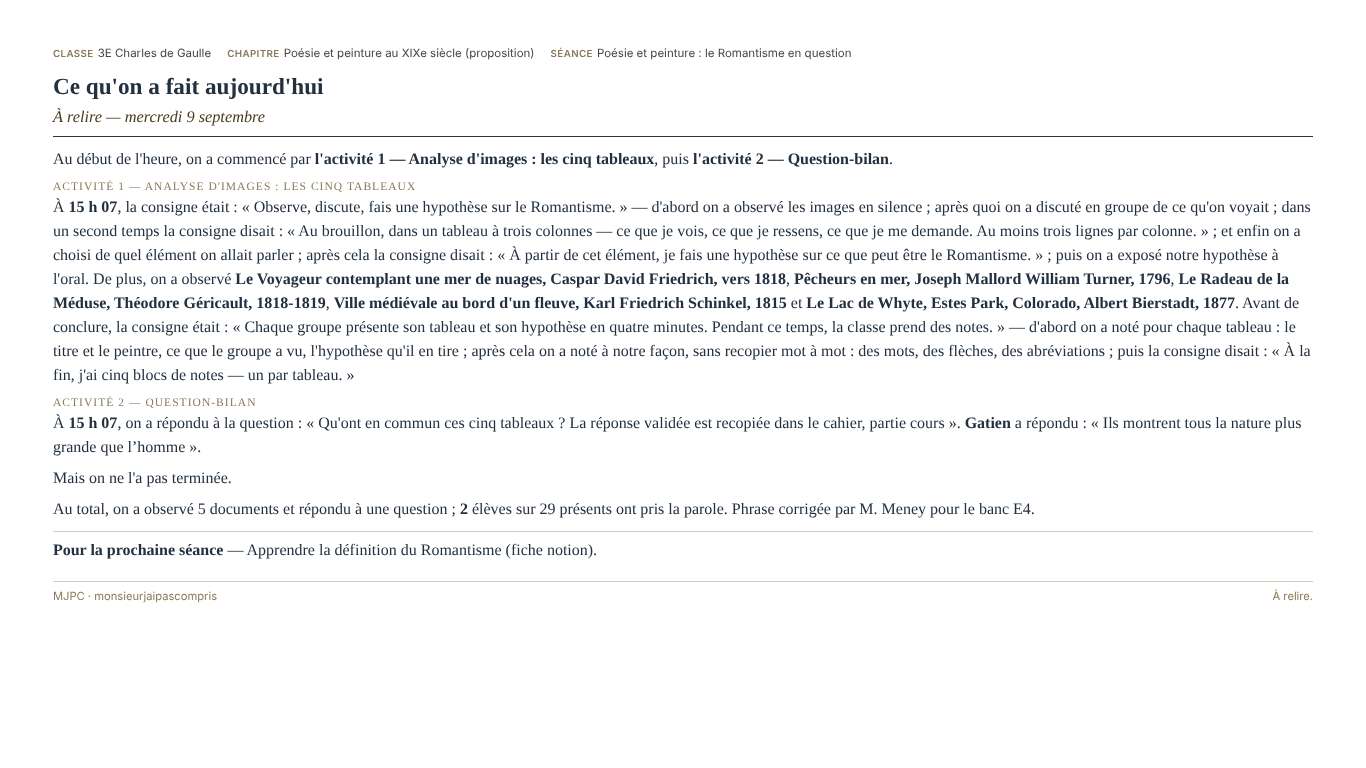
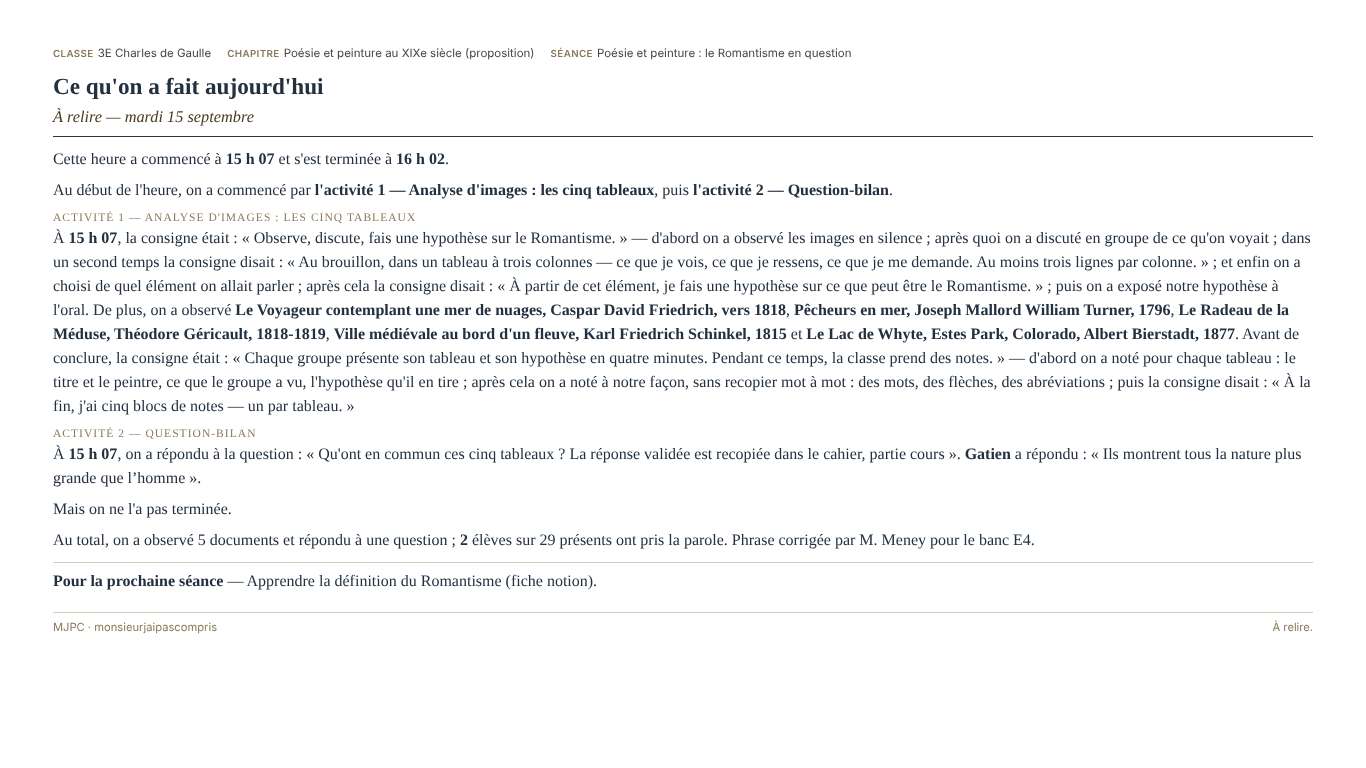
E4 · relecteur neuf (passe préalable) : 10 trouvailles corrigées avec leurs gardes (banc 34 ok sur socle simulé) ; journal
Claude-Session: https://claude.ai/code/session_01PruitidjmUJZpopKSLyTBG

diff --git a/LIVRAISONS/INTEGRATION/dr/dr-recit.js b/LIVRAISONS/INTEGRATION/dr/dr-recit.js
@@ -87,6 +87,10 @@ var CONNECTEURS={
 };
 function empreinte(s){ var x=0; for(var k=0;k<s.length;k++)x=(x*31+s.charCodeAt(k))>>>0; return x; }
 function connecteur(type,graine){ var l=CONNECTEURS[type]; return l[empreinte(graine)%l.length]; }
+/* (E4 · relecteur neuf 1) en JavaScript, \b ne connaît pas les lettres accentuées : « poètes » contenait le mot « tes » (→ « poèses »),
+   « cinéma » le mot « ma ». Les mêmes motifs, bornés par des lettres Unicode ; rien d'autre ne change. */
+function dr_rx(re){ return new RegExp(re.source.replace(/^\\b/, '(?<![\\p{L}\\p{N}_])').replace(/\\b$/, '(?![\\p{L}\\p{N}_])').replace(/\\b/g, '(?![\\p{L}\\p{N}_])'), re.flags.replace('u', '') + 'u'); }
+PRESENT_IMPARFAIT = PRESENT_IMPARFAIT.map(p => [dr_rx(p[0]), p[1]]); PERSONNE = PERSONNE.map(p => [dr_rx(p[0]), p[1]]);
 function personne(t){ var s=String(t); PERSONNE.forEach(function(p){ s=s.replace(p[0],p[1]); }); return s; }
 function recit(t){
   var d=document.createElement('div'); d.innerHTML=String(t||'');
@@ -144,7 +148,7 @@ function chapitreHtml(){ /* (f) 2 · 1 bis — une lecture, jamais une écriture
   const ligneN = (n, f) => { const pv = prevues[n.id] || [], vu = vues[n.id] || [], dn = donnees[n.id] || []; const etat = manquantes[n.id] && !vu.length ? 'manquante pour la suite' : vu.length ? 'travaillée' : (pv.some(x => aVenir.includes(x.h)) ? 'à venir' : (pv.length ? 'non travaillée' : (imprev[n.id] ? 'imprévue' : ''))); if (!pv.length && !vu.length && !dn.length && !imprev[n.id] && !manquantes[n.id]) return ''; return `<div class="chap-n ${etat.replace(/\s/g, '-').replace('é', 'e')}"><b>${esc(n.prof || n.eleve || n.id)}</b> <span class="chap-etat">${etat}</span> — prévue ${pv.length ? pv.map(x => 'h' + x.h + ' (' + esc(x.act) + ')').join(', ') : 'nulle part'} · travaillée ${vu.length ? [...new Set(vu.map(x => 'h' + x.h + ' (' + esc(x.act) + ')'))].join(', ') : 'pas encore'} · à apprendre ${dn.length ? 'donnée h' + dn.join(', h') : 'pas encore'}${imprev[n.id] ? ' · <i>imprévue, ajoutée pendant l\'heure</i>' : ''}${manquantes[n.id] && !vu.length ? ' · <i>attendue par ' + manquantes[n.id].map(x => '« ' + esc(x.act) + ' » (heure ' + x.h + ')').join(', ') + '</i>' : ''}</div>`; };
   dr_recitTaxo().forEach(d => d.familles.forEach(f => f.notions.forEach(n => { h3 += ligneN(n, f); }))); h3 += '</div>';
   return `<div class="chapitre">${h1}${h2}${h3}</div>`; }
-function brancherChapitre(){ $('rel').querySelectorAll('[data-copie-travail]').forEach(b => b.onclick = () => { const h = +b.dataset.copieTravail; const txt = (S.travailHeure || {})[h] || (h === S.heure ? texteTravailED() : ''); { const tt = txt || '(rien à faire)'; /* (E4 · R22) lisait copierTexte(texte) */ dr_recitCopierED('<p>' + esc(tt).replace(/\n/g, '<br>') + '</p>', tt, 'copié : le travail à faire de l\'heure ' + h); } journal('copie-ed', { quoi: 'travail', h }); b.textContent = '✔ copié'; }); }
+function brancherChapitre(){ $('rel').querySelectorAll('[data-copie-travail]').forEach(b => b.onclick = () => { const h = +b.dataset.copieTravail; const txt = (S.travailHeure || {})[h] || (h === S.heure ? texteTravailED() : ''); { const tt = txt || '(rien à faire)'; /* (E4 · R22) lisait copierTexte(texte) */ dr_recitCopierED('<p>' + esc(tt).replace(/\n/g, '<br>') + '</p>', tt, 'copié : le travail à faire de l\'heure ' + h); } S.copieED = S.copieED || {}; S.copieED[h] = Object.assign(S.copieED[h] || {}, { t: now(), travail: true }); /* (E4) la garde après copie le sait */ journal('copie-ed', { quoi: 'travail', h }); b.textContent = '✔ copié'; }); }
 function relecture(){ { const C = dr_recitChemin(); if (C && !DR_RECIT_CHARGE[C] && typeof dr_lire === 'function') { dr_recitCharger(() => relecture()); return; } } /* (E4) le récit relu, ma version, la copie ED : lus au hub avant de composer (C/recit) */ S.face = S.face || 'recit'; S.faceH = S.faceH || S.heure; const hs = heuresJouees(); if (!hs.includes(S.faceH)) S.faceH = hs[hs.length - 1] || S.heure; const fin = (S.closes && S.closes[S.faceH]) || (S.faceH === S.heure ? now() : now());
   let f = ''; hs.forEach(h => { f += `<button class="ong ${S.face === 'recit' && S.faceH === h ? 'on' : ''}" data-f="recit" data-h="${h}" title="Le récit de l'heure ${h}, pour l'élève et École Directe">Le récit · heure ${h}</button><button class="ong ${S.face === 'passe' && S.faceH === h ? 'on' : ''}" data-f="passe" data-h="${h}" title="Ce qui s'est passé pendant l'heure ${h}, pour toi">Ce qui s'est passé · heure ${h}</button><button class="ong ${S.face === 'papier' && S.faceH === h ? 'on' : ''}" data-f="papier" data-h="${h}" title="Le papier du cahier de l'heure ${h} : le récit relu (ma version s'il y en a une), l'entête, le travail à faire, puis les fiches à coller — prêt à imprimer">Papier · heure ${h}</button>`; }); /* (E4) + la face Papier (proposition 96, cadrage 2 §1.9) */
   if (hs.length > 1) f += `<button class="ong ${S.face === 'seance' ? 'on' : ''}" data-f="seance" data-h="${S.faceH}" title="La relecture de la séance : les heures bout à bout, un seul bilan">La séance</button>`; f += `<button class="ong ${S.face === 'chapitre' ? 'on' : ''}" data-f="chapitre" data-h="0" title="Le chapitre : le tracé des travaux à faire, ce qui a tenu et ce qui manquait, les notions — calculé des heures closes de cette classe, les heures à venir lues dans la trame ; rien ne se verse d'ici">Le chapitre</button>`;
@@ -159,7 +163,7 @@ function participeDe(v){ v = v.toLowerCase(); if (IRREGULIERS[v]) return IRREGUL
 function eleveDitJe(t){ /* « J'observe les images » → « on a observé les images » ; pronominal « je me demande » → « on s'est demandé » ; sinon la citation */
   const s = String(t).trim(); const m = s.match(/^j(?:e\s+|')(me\s+|m')?([a-zà-ÿ]+)(.*)$/i); if (!m) return null;
   const pron = m[1] ? true : false; const v = m[2]; const reste = m[3] || ''; const pp = participeDe(v); if (!pp) return null;
-  const aux = pron ? "on s'est " : (AVEC_ETRE.has(pp) ? 'on est ' : 'on a '); return aux + pp + jeInterieur(personne(reste)).replace(/\bmes\b/g, 'nos').replace(/\bmon\b/g, 'notre').replace(/\bma\b/g, 'notre'); }
+  const aux = pron ? "on s'est " : (AVEC_ETRE.has(pp) ? 'on est ' : 'on a '); return aux + pp + jeInterieur(personne(reste)).replace(dr_rx(/\bmes\b/g), 'nos').replace(dr_rx(/\bmon\b/g), 'notre').replace(dr_rx(/\bma\b/g), 'notre'); /* (E4) dr_rx : les accents */ }
 const IMPARFAIT_JE = { 'vois': 'voyait', 'vais': 'allait', 'fais': 'faisait', 'peux': 'pouvait', 'dois': 'devait', 'suis': 'était', 'ai': 'avait', 'sais': 'savait', 'veux': 'voulait', 'dis': 'disait', 'lis': 'lisait', 'écris': 'écrivait', 'mets': 'mettait', 'prends': 'prenait', 'choisis': 'choisissait', 'ressens': 'ressentait', 'comprends': 'comprenait', 'apprends': 'apprenait', 'réponds': 'répondait', 'entends': 'entendait', 'attends': 'attendait', 'connais': 'connaissait', 'crois': 'croyait', 'viens': 'venait', 'tiens': 'tenait', 'finis': 'finissait', 'réfléchis': 'réfléchissait' };
 function jeInterieur(t){ /* les « je » restés dans la phrase : « de ce que je vois » → « de ce qu'on voyait » ; « je me demande » → « on se demandait » */
   return String(t).replace(/\b(que|qu')\s*j(?:e\s+|')(me\s+|m')?([a-zà-ÿ]+)/gi, (_, q, pron, v) => { const imp = IMPARFAIT_JE[v.toLowerCase()] || (/e$/.test(v) ? v.replace(/e$/, 'ait') : null); if (!imp) return _; return "qu'on " + (pron ? 'se ' : '') + imp; })
@@ -176,19 +180,19 @@ function vuJ(h, di){ let n = 0, m = 0; J.filter(x => x.h === h && x.di === di &&
 function repsJ(h, di, bi){ return J.filter(x => x.h === h && x.type === 'reponse' && x.di === di && x.bi === bi && !x.supprimee).map(x => ({ eleve: x.eleve, i: x.ini, r: x.txt, refo: x.refo })); }
 function versionsDe(h){ S.recitVersions = S.recitVersions || {}; S.recitVersions[h] = S.recitVersions[h] || { l: [], k: -1 }; return S.recitVersions[h]; }
 function poserVersion(h, html){ const v = versionsDe(h); v.l = v.l.slice(0, v.k + 1); v.l.push({ t: now(), html }); v.k = v.l.length - 1; S.recitMoi = S.recitMoi || {}; S.recitMoi[h] = html; S.recitMoiT = S.recitMoiT || {}; if (!S.recitMoiT[h]) S.recitMoiT[h] = now(); }
-function suiteDepuis(h){ /* ce que le site a composé depuis la prise de plume (les paragraphes des activités vues après) */ const t = (S.recitMoiT || {})[h]; if (!t) return ''; const html = troisTemps(recitHtml0(now(), h), h, now(), t); if (!html) return ''; const d = document.createElement('div'); d.innerHTML = html; const r = d.querySelector('.recit'); const ps = r ? Array.from(r.querySelectorAll(':scope > p')).filter(x => !x.classList.contains('cadre') && !x.classList.contains('sous') && !x.classList.contains('devoirs') && !x.classList.contains('bilan')) : []; return ps.map(x => x.outerHTML).join(''); }
+function suiteDepuis(h){ /* ce que le site a composé depuis la prise de plume (les paragraphes des activités vues après) */ const t = (S.recitMoiT || {})[h]; if (!t) return ''; const html = troisTemps(recitHtml0(now(), h, { apres: t }), h, now(), t); /* (E4 · relecteur 1) lisait recitHtml0(now(), h) : la suite reracontait l'activité entière */ if (!html) return ''; const d = document.createElement('div'); d.innerHTML = html; const r = d.querySelector('.recit'); const ps = r ? Array.from(r.querySelectorAll(':scope > p')).filter(x => !x.classList.contains('cadre') && !x.classList.contains('sous') && !x.classList.contains('devoirs') && !x.classList.contains('bilan')) : []; return ps.map(x => x.outerHTML).join(''); }
 function suiteHtml(h){ const su = suiteDepuis(h); return su ? `<div class="ed-suite"><div class="ed-suite-t">— la suite de l'heure, composée par le site depuis ${hhmm((S.recitMoiT || {})[h]).replace(':', ' h ')} (tu la reprendras dans ta version) :</div>${su}</div>` : ''; }
 function reprendreSuite(h){ const su = suiteDepuis(h); if (!su) return; S.recitMoi[h] = (S.recitMoi[h] || '') + su; S.recitMoiT[h] = now(); poserVersion(h, S.recitMoi[h]); journal('recit-suite-reprise', { h }); tout(); if (document.getElementById('ecran-relecture').classList.contains('on')) relecture(); }
 function basculerRecit(h, vers){ const faire = () => { S.recitVersion = S.recitVersion || {}; S.recitVersion[h] = vers; if (vers === 'moi' && (!S.recitMoi || S.recitMoi[h] == null)) poserVersion(h, recitPourED0(h)); journal(vers === 'moi' ? 'recit-ma-version' : 'recit-compose-par-le-site', { h }); tout(); if ($('rel') && document.getElementById('ecran-relecture').classList.contains('on')) relecture(); }; if (vers === 'moi' && S.copieED && S.copieED[h]) { gardeCopie(h, faire); } else faire(); }
-function gardeCopie(h, faire){ const c = S.copieED[h]; $('gcopie-titre').textContent = `Ce récit a déjà été copié pour École Directe à ${hhmm(c.t).replace(':', ' h ')} — poursuivre quand même ?`; $('garde-copie').classList.add('on'); $('gcopie-oui').onclick = () => { $('garde-copie').classList.remove('on'); journal('recit-poursuivre-apres-copie', { h }); faire(); }; $('gcopie-non').onclick = () => { $('garde-copie').classList.remove('on'); }; $('gcopie-non').focus(); }
+function gardeCopie(h, faire){ const c = S.copieED[h]; $('gcopie-titre').textContent = `Ce récit a déjà été copié pour École Directe à ${hhmm(c.t).replace(':', ' h ')} — poursuivre quand même ?`; $('garde-copie').classList.add('on'); $('gcopie-oui').onclick = () => { $('garde-copie').classList.remove('on'); S.copieConfirme = S.copieConfirme || {}; S.copieConfirme[h] = now(); journal('recit-poursuivre-apres-copie', { h }); faire(); }; $('gcopie-non').onclick = () => { $('garde-copie').classList.remove('on'); }; $('garde-copie').onkeydown = ev => { if (ev.key === 'Escape') { ev.stopPropagation(); $('garde-copie').classList.remove('on'); } }; /* (E4) Échap ferme ; « poursuivre » vaut jusqu'à la prochaine copie */ $('gcopie-non').focus(); }
 function recitPourED0(h){ const d = document.createElement('div'); d.innerHTML = troisTemps(recitHtml0(now(), h), h, now()); const r = d.querySelector('.recit'); return r ? Array.from(r.querySelectorAll(':scope > p')).filter(x => !x.classList.contains('cadre') && !x.classList.contains('sous') && !x.classList.contains('devoirs')).map(x => x.outerHTML).join('') : ''; }
 function recitPourED(h){ if (S.recitVersion && S.recitVersion[h] === 'moi' && S.recitMoi && S.recitMoi[h] != null) return S.recitMoi[h] + suiteHtml(h); const d = document.createElement('div'); d.innerHTML = recitHtml(now(), h); const r = d.querySelector('.recit'); return r ? Array.from(r.querySelectorAll(':scope > p')).filter(x => !x.classList.contains('cadre') && !x.classList.contains('sous') && !x.classList.contains('devoirs')).map(x => x.outerHTML).join('') : ''; }
-function recitHtml(fin, h, bornes){ h = h || S.heure; if (bornes) return recitHtml0(fin, h, bornes); /* l'appel interne du moteur (un élève arrivé ou parti) veut le récit brut tronqué — sans passer par « ma version », sinon la boucle est infinie */ if (S.recitVersion && S.recitVersion[h] === 'moi' && S.recitMoi && S.recitMoi[h] != null) { recitHtml0(fin, h, bornes); /* pose le branchement des boutons */ return `<div class="recit ma-version">${S.recitMoi[h]}${suiteHtml(h)}</div>` + barreRecit(); } /* (d) 3.8 : ma version, une seule source */ return troisTemps(recitHtml0(fin, h, bornes), h, fin); }
+function recitHtml(fin, h, bornes){ h = h || S.heure; if (bornes) return recitHtml0(fin, h, bornes); /* l'appel interne du moteur (un élève arrivé ou parti) veut le récit brut tronqué — sans passer par « ma version », sinon la boucle est infinie */ if (S.recitVersion && S.recitVersion[h] === 'moi' && S.recitMoi && S.recitMoi[h] != null) { recitHtml0(fin, h, bornes); /* pose le branchement des boutons */ const dC = document.createElement('div'); dC.innerHTML = troisTemps(recitHtml0(fin, h, bornes), h, fin); const pris = sel => Array.from(dC.querySelectorAll('.recit > ' + sel)).map(x => x.outerHTML).join(''); /* (E4 · relecteur 1) ma version gardait seulement les paragraphes : l'entête, le cadre de l'heure et le travail à faire restent ceux du site, autour */ return `<div class="dr-recit-tete">${pris('h2') + pris('p.sous') + pris('p.cadre')}</div><div class="recit ma-version">${S.recitMoi[h]}${suiteHtml(h)}</div><div class="dr-recit-queue">${pris('p.devoirs')}</div>` + barreRecit(); } /* (d) 3.8 : ma version, une seule source */ return troisTemps(recitHtml0(fin, h, bornes), h, fin); }
 const barreRecit = () => `<div style="margin-top:12px;display:flex;gap:8px;align-items:center;flex-wrap:wrap"><button class="btn" id="r-copie-contenu" title="Copie le récit (sans le travail à faire) pour le coller dans École Directe — après ça, modifier le récit demande une confirmation">Copier pour École Directe — contenu de séance</button><button class="btn" id="r-copie-travail" title="Copie le travail à faire en entier pour le coller dans École Directe">Copier — travail à faire</button><button class="btn" id="r-figer">·</button><span id="r-copie-etat" style="color:var(--texte2);font-size:.9rem"></span></div>`;
 const TEMPS = [['debut', 0, 10], ['entre1', 10, 25], ['milieu', 25, 35], ['entre2', 35, 45], ['fin', 45, 99]];
 function tempsDe(ms, h){ const min = (ms - dr_recitHeure(h).base) / 60000; return (TEMPS.find(t => min >= t[1] && min < t[2]) || TEMPS[TEMPS.length - 1])[0]; }
 function troisTemps(html, h, fin, depuis){ /* (d) 2 · 1.2 ter et quater — les activités vues, rangées par le temps où elles ont commencé (l'heure réelle), les repères, « on a continué », le verdict ; les paragraphes du moteur s'y rattachent */
-  const d = document.createElement('div'); d.innerHTML = html; const rec = d.querySelector('.recit') || d; const ps = Array.from(rec.querySelectorAll('p[data-cle]')); const E = seance().ecrans; const JH = J.filter(x => x.h === h && x.type === 'diapo' && E[x.di] && !E[x.di].role && (!depuis || x.t >= depuis)).sort((x, y) => x.t - y.t); if (!JH.length) return depuis ? '' : html;
+  const d = document.createElement('div'); d.innerHTML = html; const rec = d.querySelector('.recit') || d; const ps = Array.from(rec.querySelectorAll('p[data-cle]')); const E = seance().ecrans; const JH = J.filter(x => x.h === h && x.type === 'diapo' && E[x.di] && E[x.di].role !== 'fin' && /* (E4 · relecteur 1) lisait !role : une diapo de réactivation, montrée et répondue, disparaissait du récit ; seule la diapo de fin d'heure ne se raconte pas (cadrage 2 · 1.10) */ (!depuis || x.t >= depuis)).sort((x, y) => x.t - y.t); if (!JH.length) return depuis ? '' : html;
   const finH = (S.closes && S.closes[h]) || fin; const cleDe = e => e.actId || ('r-' + e.eid); const acts = []; (S.oraux && S.oraux[h] || []).filter(o => !depuis || o.t0 >= depuis).forEach(o => { const ad = o.act ? (dr_recitActivites() || []).find(z => z.id === o.act) : null; acts.push({ cle: o.act ? o.act : 'reprise-' + o.t0, titre: ad ? 'l\'activité ' + ad.num + ' — ' + ad.titre + ' (à l\'oral)' : 'une reprise à l\'oral', t0: o.t0, t1: o.t1, vues: [], oral: true }); }); JH.forEach((x, k) => { const e = E[x.di]; const cle = cleDe(e); let a = acts.find(z => z.cle === cle); if (a && a.oral) return; if (!a) { const ad = actDe(e); a = { cle, titre: ad ? 'l\'activité ' + ad.num + ' — ' + ad.titre : e.act, t0: x.t, t1: x.t, vues: [] }; acts.push(a); } a.vues.push({ t: x.t, act: e.act }); const suivant = JH.slice(k + 1).find(y => cleDe(E[y.di]) !== cle); a.t1 = Math.max(a.t1, suivant ? suivant.t : finH); });
   acts.sort((x, y) => x.t0 - y.t0); /* les oraux prennent leur place dans le temps */ const REP = { debut: 'Au début de l\'heure, on a commencé par', entre1: 'Ensuite, on a fait', milieu: 'Puis, au milieu de l\'heure, on a fait', entre2: 'Après cela, on a fait', fin: 'Enfin, à la fin de l\'heure, on a fait' }; const CONT = { milieu: 'Puis, au milieu de l\'heure, on a continué', fin: 'Enfin, à la fin de l\'heure, on a continué' };
   const out = []; const bornesDe = t => { const b = TEMPS.find(x => x[0] === t); return [dr_recitHeure(h).base + b[1] * 60000, dr_recitHeure(h).base + b[2] * 60000]; };
@@ -203,7 +207,7 @@ function recitHtml0(fin, h, bornes){ h = h || S.heure; const finHeure = (S.close
   const hm = t => hhmm(t).replace(':', ' h ');
   const JH = J.filter(x => x.h === h); const dateJour = dr_recitHeure(h).jour;
   const p = [`<h2>Ce qu'on a fait aujourd'hui</h2>`, `<p class="sous">${[dr_recitClasseNom(), dr_recitChapitre() + ', ' + dr_recitSeanceTitre(), dateJour + ' · heure ' + h].filter(Boolean).map(esc).join(' · ')}</p>`];
-  const debut = JH.length ? JH[0].t : now(); p.push(`<p class="cadre">Cette heure a commencé à <b>${hm(debut)}</b> et s'est terminée à <b>${hm(finHeure)}</b>.</p>`);
+  const debut = JH.length ? JH[0].t : now(); const finCr = (dr_recitHeure(h) || {}).fin; /* (E4 · relecteur 1) cadrage 2 · 1.1 : « la fin du créneau » — lisait finHeure (maintenant, en cours d'heure) */ p.push(`<p class="cadre">Cette heure a commencé à <b>${hm(debut)}</b> et s'est terminée à <b>${finCr ? String(finCr).replace(':', ' h ') : hm(finHeure)}</b>.</p>`);
   const diapos = JH.filter(e => e.type === 'diapo'); const vus = {}; diapos.forEach(e => { vus[e.di] = vus[e.di] || e.t; }); let ordre = Object.keys(vus).map(Number).sort((x, y) => vus[x] - vus[y]); if (bornes) ordre = ordre.filter(di => (bornes.avant == null || vus[di] < bornes.avant) && (bornes.apres == null || vus[di] >= bornes.apres));
   let rang = 0, nbFiches = 0, nbQuestions = 0, nbImages = 0, nbRappels = 0; /* (E4 · R2) + nbRappels */ const eleves = {}; const dejaCite = {};
   const majApresPoint = t => t.replace(/([.!?»]\s+)([a-zà-ÿ])/g, (_, x, y) => x + y.toUpperCase());
@@ -222,7 +226,7 @@ function recitHtml0(fin, h, bornes){ h = h || S.heure; const finHeure = (S.close
         if (b.t === 'question') { const r = repsJ(h, di, bi).filter(y => y.r); if (!r.length && !S.parts.some(pp => pp.eid === e.eid && pp.heure === h && pp.m !== 'reponse')) { /* (d, Paul 23/09 — 2 · 1.10) une question posée sans réponse d'élève se raconte quand même : la question, et la réponse attendue vue en classe si elle l'a été */ if (vu > 0 || vus[di]) { const q0 = String(b.txt || '').replace(/^Question \d+\s*[—-]\s*/, '').replace(/\s*La réponse validée est recopiée[^.]*\.?/, '').trim(); const att = elsB.filter(o => !o.x.q).map(o => esc(String(o.x.txt).replace(/\.$/, ''))); /* (p8-3c) la question est un élément : ses lignes vues seulement */ nbQuestions++; phrases.push('on a posé la question : « ' + esc(q0.replace(/\.$/, '')) + ' »' + (att.length ? ' ; la réponse attendue vue en classe était : « ' + att.join(' » ; « ') + ' »' : '')); } return; } nbQuestions++; r.forEach(y => { if (y.eleve) eleves[y.eleve] = 1; });
           const autres = [...new Set(S.parts.filter(pp => pp.eid === e.eid && pp.heure === h && pp.m !== 'reponse').map(pp => pp.nom))]; autres.forEach(n => eleves[n] = 1);
           const q = String(b.txt || '').replace(/^Question \d+\s*[—-]\s*/, '');
-          phrases.push('on a répondu à la question : « ' + esc(q.replace(/\.$/, '')) + ' »' + (r.length ? '. ' + r.map(y => '<b>' + esc(y.eleve ? prenomUnique(y.eleve) : (y.i || 'Un élève')) + '</b> a répondu : « ' + esc(y.r.trim().replace(/\.$/, '')) + ' »' + (y.refo ? ', que M. Meney a reformulée' : '')).join(' ; ') : '') + (autres.length ? '. ' + autres.map(n => '<b>' + esc(prenomUnique(n)) + '</b>').join(', ') + (autres.length > 1 ? ' ont aussi participé' : ' a aussi participé') + ' à la mise en commun.' : '.')); } });
+          phrases.push('on a répondu à la question : « ' + esc(q.replace(/\.$/, '')) + ' »' + (r.length ? '. ' + r.map(y => '<b>' + esc(y.eleve ? prenomUnique(y.eleve) : 'un élève' /* (E4 · relecteur 1, cadrage 2 · 1.5 bis) lisait y.i || 'Un élève' : les initiales sortaient */) + '</b> a répondu : « ' + esc(y.r.trim().replace(/\.$/, '')) + ' »' + (y.refo ? ', que M. Meney a reformulée' : '')).join(' ; ') : '') + (autres.length ? '. ' + autres.map(n => '<b>' + esc(prenomUnique(n)) + '</b>').join(', ') + (autres.length > 1 ? ' ont aussi participé' : ' a aussi participé') + ' à la mise en commun.' : '.')); } });
       const lum = [...new Set(lumJ)].map(kk => els[kk]).filter(Boolean).map(x => x.txt); if (lum.length) phrases.push('on a mis en lumière « ' + lum.map(esc).join(' », « ') + ' »');
       JH.filter(x => x.type === 'document' && x.mur && x.mur.di === di).forEach(x => { const d = dr_recitDocuments().find(y => y.id === x.id); const pages = JH.filter(y => (y.type === 'document' || y.type === 'document-page') && y.id === x.id).map(y => y.pos); nbImages++; if (d) phrases.push('on a projeté <b>' + esc(d.titre) + '</b>' + (pages.length > 1 ? ' (' + (d.type === 'pdf' ? 'pages' : 'étapes') + ' ' + Math.min(...pages) + ' à ' + Math.max(...pages) + ')' : '')); }); });
     const notes = S.notesFil.filter(n => n.versee && g.dis.some(di => n.eid === seance().ecrans[di].eid) && n.heure === h);
@@ -253,9 +257,9 @@ function recitHtml0(fin, h, bornes){ h = h || S.heure; const finHeure = (S.close
   let hh = `<div class="recit">${p.join('')}</div>`;
   hh += barreRecit();
   setTimeout(() => { const copier = (txt, ok) => { const dire = m => { const z = $('r-copie-etat'); if (z) z.textContent = m; }; if (navigator.clipboard && navigator.clipboard.writeText) navigator.clipboard.writeText(txt).then(() => dire(ok)).catch(() => dire('la copie automatique a échoué — sélectionne le texte et copie-le')); else dire('la copie automatique a échoué — sélectionne le texte et copie-le'); };
-    const rc = $('r-copie-contenu'); if (rc) rc.onclick = () => { S.copieED = S.copieED || {}; S.copieED[S.heure] = Object.assign(S.copieED[S.heure] || {}, { t: now(), contenu: true }); journal('copie-ed', { quoi: 'contenu' }); const rec0 = document.querySelector('#rel .recit') || document.querySelector('.recit'); /* (E4 · R22) lisait copier(innerText) : le texte seul */ dr_recitCopierED(dr_recitContenuED(rec0), rec0.innerText.replace(/\n\s*Pour la prochaine séance[\s\S]*$/, ''), 'copié : le contenu de séance'); };
+    const rc = $('r-copie-contenu'); if (rc) rc.onclick = () => { S.copieED = S.copieED || {}; S.copieED[S.heure] = Object.assign(S.copieED[S.heure] || {}, { t: now(), contenu: true }); journal('copie-ed', { quoi: 'contenu' }); const rec0 = document.querySelector('#rel .recit') || document.querySelector('.recit'); const tete = document.querySelector('#rel .dr-recit-tete'); /* (E4 · R22) lisait copier(innerText) : le texte seul, et coupait le bilan avec le travail */ const html0 = (tete ? tete.innerHTML : '') + dr_recitContenuED(rec0); dr_recitCopierED(html0, null, 'copié : le contenu de séance'); };
     const rt = $('r-copie-travail'); if (rt) rt.onclick = () => { S.copieED = S.copieED || {}; S.copieED[S.heure] = Object.assign(S.copieED[S.heure] || {}, { t: now(), travail: true }); journal('copie-ed', { quoi: 'travail' }); const tt = texteTravail() || '(rien à faire)'; /* (E4 · R22) lisait copier(texte) */ dr_recitCopierED('<p>' + esc(tt).replace(/\n/g, '<br>') + '</p>', tt, 'copié : le travail à faire'); };
-    const rf = $('r-figer'); if (rf) { const h = S.faceH || S.heure; const v = (S.recitVersion || {})[h] || 'site'; rf.outerHTML = `<span class="rv" style="font-size:.85rem"><span class="${v === 'site' ? 'on' : ''}" data-rv="site" title="Le récit se réécrit tout seul à chaque geste de l'heure. Ta version, si tu en as une, attend dans l'autre position : rien n'est perdu.">composé par le site</span><span class="${v === 'moi' ? 'on' : ''}" data-rv="moi" title="Le récit devient le tien : tu le corriges ici, il ne se réécrit plus ; ce qui se passe ensuite dans l'heure s'ajoute dessous, à part. C'est ce texte qui part (École Directe, le papier). S'il a déjà été copié pour École Directe, on te le demande d'abord.">ma version (modifier)</span></span>`; /* (E4) + les infobulles du sélecteur (contrat §8.6) */ $('rel').querySelectorAll('[data-rv]').forEach(b => b.onclick = () => basculerRecit(h, b.dataset.rv)); if (v === 'moi' && suiteDepuis(h)) { const rvb = $('rel').querySelector('.rv'); if (rvb && !$('rel-reprendre')) rvb.insertAdjacentHTML('beforeend', '<button class="btn" id="rel-reprendre" style="margin-left:8px" title="Colle à la fin de ta version ce que le site a raconté depuis que tu as pris la plume, pour n\'avoir qu\'un seul récit à corriger">Reprendre la suite dans ma version</button>'); const rr = $('rel-reprendre'); if (rr) rr.onclick = () => reprendreSuite(h); } const r = document.querySelector('#rel .recit.ma-version'); if (r) { r.contentEditable = 'true'; r.oninput = () => { S.recitMoi[h] = r.innerHTML; if (!S._rvT) S._rvT = setTimeout(() => { S._rvT = null; poserVersion(h, r.innerHTML); journal('recit-modifie', { h }); }, 800); }; } } }, 0);
+    const rf = $('r-figer'); if (rf) { const h = S.faceH || S.heure; const v = (S.recitVersion || {})[h] || 'site'; rf.outerHTML = `<span class="rv" style="font-size:.85rem"><span class="${v === 'site' ? 'on' : ''}" data-rv="site" title="Le récit se réécrit tout seul à chaque geste de l'heure. Ta version, si tu en as une, attend dans l'autre position : rien n'est perdu.">composé par le site</span><span class="${v === 'moi' ? 'on' : ''}" data-rv="moi" title="Le récit devient le tien : tu le corriges ici, il ne se réécrit plus ; ce qui se passe ensuite dans l'heure s'ajoute dessous, à part. C'est ce texte qui part (École Directe, le papier). S'il a déjà été copié pour École Directe, on te le demande d'abord.">ma version (modifier)</span></span>`; /* (E4) + les infobulles du sélecteur (contrat §8.6) */ $('rel').querySelectorAll('[data-rv]').forEach(b => b.onclick = () => basculerRecit(h, b.dataset.rv)); if (v === 'moi' && suiteDepuis(h)) { const rvb = $('rel').querySelector('.rv'); if (rvb && !$('rel-reprendre')) rvb.insertAdjacentHTML('beforeend', '<button class="btn" id="rel-reprendre" style="margin-left:8px" title="Colle à la fin de ta version ce que le site a raconté depuis que tu as pris la plume, pour n\'avoir qu\'un seul récit à corriger">Reprendre la suite dans ma version</button>'); const rr = $('rel-reprendre'); if (rr) rr.onclick = () => reprendreSuite(h); } const r = document.querySelector('#rel .recit.ma-version'); if (r) { r.contentEditable = 'true'; r.onfocus = () => { const c = (S.copieED || {})[h]; if (c && !((S.copieConfirme || {})[h] >= c.t)) { r.blur(); gardeCopie(h, () => r.focus()); } }; /* (E4 · relecteur 1, cadrage 2 · 3.8) toute modification après une copie ED passe par la garde */ r.oninput = () => { S.recitMoi[h] = r.innerHTML; if (!S._rvT) S._rvT = setTimeout(() => { S._rvT = null; poserVersion(h, r.innerHTML); journal('recit-modifie', { h }); }, 800); }; } } }, 0);
   const absents = ELEVES.filter(e => (S.appel[e] || []).some(x => x.heure === h)); if (absents.length && !bornes) { hh += `<h3>Le mot pour chaque absent (enregistré à la clôture)</h3>`; absents.forEach(e => { const seg = S.appel[e].filter(x => x.heure === h); const arr = seg.find(x => x.type === 'arrive'); const part = seg.find(x => x.type === 'parti'); const rev = seg.find(x => x.type === 'revenu');
     const b = arr ? { avant: arr.t } : part ? { apres: part.t, avant: rev ? rev.t : null } : null; const tronque = b ? recitHtml(fin, h, b) : null; const d2 = document.createElement('div'); if (tronque) d2.innerHTML = tronque; const paras = tronque ? Array.from(d2.querySelectorAll('.recit > p')).filter(x => !x.classList.contains('sous') && !x.classList.contains('cadre') && !x.classList.contains('bilan') && !x.classList.contains('devoirs')).map(x => x.outerHTML).join('') : '';
     hh += `<div class="recit" style="margin-bottom:10px"><p><b>${esc(prenomUnique(e))}</b>, ${arr ? 'tu es arrivé à ' + hm(arr.t) + '. Voici ce qu\'on a fait avant' : part ? 'tu es parti à ' + hm(part.t) + (rev ? ' et revenu à ' + hm(rev.t) : '') + '. Voici ce qu\'on a fait pendant ce temps' : 'tu n\'étais pas là ' + dateJour.split(' ')[0] + ' à ' + hm(debut) + '. Voici ce qu\'on a fait'} :</p>${b ? (paras || '<p><i>(rien n\'a été montré pendant ton absence)</i></p>') : '<p><i>(le récit ci-dessus, en entier)</i></p>'}${tr ? '<p class="devoirs"><b>Pour la prochaine séance</b> — ' + esc(tr.replace(/^Pour la prochaine séance[^—]*— /, '')) + '</p>' : ''}${(S.mots && S.mots[h]) ? '<p>' + esc(S.mots[h]) + '</p>' : ''}</div>`; }); }
@@ -337,15 +341,16 @@ setInterval(dr_recitAuto, 900);
    « École Directe accepte le HTML collé : on lui donne une mise en forme simple et propre, sans nos classes ni nos repères. »
    text/html + text/plain ; le texte est celui que la maquette copiait. Repli : le texte seul, comme la maquette. */
 function dr_recitHtmlPropre(html){ const out = document.createElement('div'); out.innerHTML = html;
-  out.querySelectorAll('button, .rv, #r-copie-etat, .ed-suite-t').forEach(x => x.remove());
+  out.querySelectorAll('button, .rv, #r-copie-etat, .ed-suite-t').forEach(x => x.remove()); out.querySelectorAll('.act-r').forEach(x => { const b = document.createElement('b'); b.textContent = x.textContent; x.replaceWith(b, document.createElement('br')); });   /* le titre d'activité reste un titre */
   Array.from(out.querySelectorAll('*')).forEach(x => { x.removeAttribute('class'); x.removeAttribute('contenteditable'); x.removeAttribute('id'); Array.from(x.attributes).filter(a => /^data-/.test(a.name)).forEach(a => x.removeAttribute(a.name)); });
   Array.from(out.querySelectorAll('span')).forEach(x => { if (!x.getAttribute('style')) x.replaceWith(document.createTextNode(x.textContent + ' ')); });
   return '<div style="font-family:Georgia,serif;font-size:14px;line-height:1.55">' + out.innerHTML + '</div>'; }
-function dr_recitCopierED(html, texte, ok, dire){ dire = dire || (m => { const z = $('r-copie-etat'); if (z) z.textContent = m; }); const propre = dr_recitHtmlPropre(html); window.DR_RECIT_DERNIERE_COPIE = { html: propre, texte };
+function dr_recitCopierED(html, texte, ok, dire){ dire = dire || (m => { const z = $('r-copie-etat'); if (z) z.textContent = m; }); const propre = dr_recitHtmlPropre(html); if (texte == null) texte = dr_recitTexteDe(propre); window.DR_RECIT_DERNIERE_COPIE = { html: propre, texte };
   const repli = () => { if (navigator.clipboard && navigator.clipboard.writeText) navigator.clipboard.writeText(texte).then(() => dire(ok + ' (texte simple)')).catch(() => dire('la copie automatique a échoué — sélectionne le texte et copie-le')); else dire('la copie automatique a échoué — sélectionne le texte et copie-le'); };
   try { if (navigator.clipboard && navigator.clipboard.write && typeof ClipboardItem !== 'undefined') { navigator.clipboard.write([new ClipboardItem({ 'text/html': new Blob([propre], { type: 'text/html' }), 'text/plain': new Blob([texte], { type: 'text/plain' }) })]).then(() => dire(ok)).catch(repli); return; } } catch (e) {} repli(); }
 /* le contenu de séance : le récit affiché sans le travail à faire (ni ce qui le suit, comme la maquette le coupait) */
-function dr_recitContenuED(rec){ const c = rec.cloneNode(true); const d = c.querySelector('.devoirs'); if (d) { let n = d.nextSibling; while (n) { const s = n.nextSibling; n.remove(); n = s; } d.remove(); } return c.innerHTML; }
+function dr_recitContenuED(rec){ const c = rec.cloneNode(true); c.querySelectorAll('.devoirs, .ed-suite-t').forEach(x => x.remove()); return c.innerHTML; }   /* sans le travail à faire (cadrage 2 · 1.9) ni le repère de la suite (pour Paul) ; le bilan reste, comme l'ancien copierED */
+function dr_recitTexteDe(html){ const z = document.createElement('div'); z.style.cssText = 'position:fixed;left:-10000px;top:0;width:700px;white-space:normal'; z.innerHTML = html; document.body.appendChild(z); const t = z.innerText.replace(/\n{3,}/g, '\n\n').trim(); z.remove(); return t; }
 
 /* ── (E4 · mandat §5) LES DOCUMENTS PAR RÉFÉRENCE (cadrage n°7) ──
    Les documents d'une séance sont les items de sce.items (ce que Structure connaît : ed2Documents) ; une seule copie, celle de Structure.
@@ -371,7 +376,7 @@ function dr_recitOuvrirItem(id){ const d = dr_recitDocuments().find(x => x.id ==
    Deux parties, comme l'ancien papier (moteur L1387-1404) : « ce qu'on relit » (le récit tel qu'il part : ma version et sa suite,
    ou le composé ; le travail à faire), puis « ce qu'on colle » (chaque fiche montrée dans l'heure, avec ce que la classe y a surligné
    et recopié). L'entête et le pied du papier d'aujourd'hui. Imprimable : @media print n'imprime que la feuille (dr.css, bloc E4). */
-function dr_papierRelire(h){ const pr = dr_recitProchaines(); const apres = pr.find(p => { const t = Date.parse(p.iso); return !isNaN(t) && t > dr_recitHeure(h).base; }) || pr[0]; if (apres && apres.l) return apres.l.split(',')[0];
+function dr_papierRelire(h){ const pr = dr_recitProchaines(); const apres = pr.find(p => { const t = Date.parse(p.iso); return !isNaN(t) && t > dr_recitHeure(h).base; }); /* (E4 · relecteur 1) lisait || pr[0] : une date passée */ if (apres && apres.l) return apres.l.split(',')[0];
   const d = new Date(dr_recitHeure(h).base); d.setDate(d.getDate() + 1); while (d.getDay() === 0 || d.getDay() === 6) d.setDate(d.getDate() + 1); return dr_recitJourDe(d.getTime()).replace(/\s\d{4}$/, ''); }   /* l'ancien : le prochain jour ouvré (_drProchainCreneau) */
 function dr_papierFiches(h){ const E = seance().ecrans; const vus = []; J.filter(x => x.h === h && x.type === 'diapo').forEach(x => { if (!vus.includes(x.di)) vus.push(x.di); }); const out = [];
   vus.forEach(di => { const e = dr_recitEcranVu(h, E[di]); if (!e) return; /* (13 · 8) la copie de la classe */ (e.blocs || []).forEach((b, bi) => { if (b.t !== 'fiche') return; const cit = dr_recitCitations(h, di, bi, e); const rap = dr_recitRappel(b); const lignes = (b.el || []).map(x => typeof x === 'string' ? x : (x && x.txt) || ''); let corps = lignes.map(l => { let t = esc(l); cit.sur.forEach(s => { const s2 = esc(s); if (s2 && t.includes(s2)) t = t.replace(s2, '<mark>' + s2 + '</mark>'); }); return '<p class="f-bloc">' + t + '</p>'; }).join('');
@@ -379,7 +384,7 @@ function dr_papierFiches(h){ const E = seance().ecrans; const vus = []; J.filter
   return out.join(''); }
 function papierHtml(h){ const fin = (S.closes && S.closes[h]) || now(); const d = document.createElement('div'); d.innerHTML = recitHtml(fin, h); const rec = d.querySelector('.recit'); let corps = '';
   if (rec) { const r = rec.cloneNode(true); r.querySelectorAll('h2, p.sous, .ed-suite-t, button, .rv').forEach(x => x.remove()); corps = r.innerHTML;
-    if (rec.classList.contains('ma-version')) { const d2 = document.createElement('div'); d2.innerHTML = troisTemps(recitHtml0(fin, h), h, fin); const dv = d2.querySelector('.recit .devoirs'); if (dv) corps += dv.outerHTML; } }
+    if (rec.classList.contains('ma-version')) { const cad = d.querySelector('.dr-recit-tete p.cadre'); if (cad) corps = cad.outerHTML + corps; const d2 = document.createElement('div'); d2.innerHTML = troisTemps(recitHtml0(fin, h), h, fin); const dv = d2.querySelector('.recit .devoirs'); if (dv) corps += dv.outerHTML; } }
   const sce = seance(); const fiches = dr_papierFiches(h);
   return `<div class="dr-papier-barre"><button class="btn" id="r-imprimer" title="Imprime le papier du cahier : la page du récit de l'heure ${h}, puis les fiches à coller. Seule la feuille sort à l'impression, rien d'autre de l'écran.">🖨 Imprimer le papier</button><span style="color:var(--texte2);font-size:.9rem">Le papier découle du récit : ce que tu corriges dans « Le récit » (ma version) est ce qui s'imprime.</span></div>`
     + `<div class="dr-papier"><div class="a4"><div class="f-page"><div class="f-entete"><div class="f-metas"><span><span class="f-meta-l">Classe</span>${esc(dr_recitClasseNom())}</span><span><span class="f-meta-l">Chapitre</span>${esc(dr_recitChapitre())}</span><span><span class="f-meta-l">Séance</span>${esc(sce.titre || sce.title || '')}</span></div><div class="f-titre">Ce qu'on a fait aujourd'hui</div><div class="f-soustitre">À relire — ${esc(dr_papierRelire(h))}</div></div><div class="f-corps-recit">${corps || '<p><i>(rien n\'a encore été montré à la classe dans cette heure)</i></p>'}</div><div class="f-pied"><span>MJPC · monsieurjaipascompris</span><span>À relire.</span></div></div></div>${fiches}</div>`; }

diff --git a/LIVRAISONS/INTEGRATION/E4/relecteurs/R1-pre-E1a.md b/LIVRAISONS/INTEGRATION/E4/relecteurs/R1-pre-E1a.md
@@ -1,0 +1,19 @@
+# Relecteur neuf n°1 (passe préalable, avant E1-a) — le récit, « ma version », la copie ED
+
+*Lancé à 08:50 UTC, sur la maquette p8-5g avec `dr-recit.js` injecté ; n'avait que le contrat, le mandat E4, le cadrage 2 et la page. La passe obligatoire (contrat §8.8) sera refaite sur `assemble/index.html`.*
+
+| # | trouvaille (gravité) | suite |
+|---|---|---|
+| 1 | « poètes » transposé en « poèses », « devant vous » → « devant on » : `\b` de JS ignore les lettres accentuées (haute) | **corrigé** (`dr_rx`) ; garde : banc T |
+| 2 | une diapo de réactivation (rôle) montrée et répondue n'est pas racontée, mais comptée au bilan (haute) | **corrigé** (seule la diapo `fin` ne se raconte pas) |
+| 3 | « ma version » perd l'entête, le cadre, le travail (haute) | **corrigé** (l'entête et le travail restent ceux du site, autour) ; garde : banc T |
+| 4 | la suite sous ma version reraconte l'activité entière (haute) | **corrigé** (`recitHtml0(…, {apres})`) |
+| 5 | la copie ED de la fin de l'heure (étape 6, `#f-copie-*`) est du texte brut (haute) | **territoire E2** (l. 1567-1568) : `dr_recitCopierED(html, null, ok)` est prêt ; écrit pour E2 dans `JOURNAL.md` |
+| 6 | le repère « la suite… (tu la reprendras) » part dans la copie texte (moyenne) | **corrigé** ; garde : banc T |
+| 7 | le titre d'activité fondu dans le paragraphe de la copie HTML (moyenne) | **corrigé** (`<b>` + saut) ; garde : banc T |
+| 8 | la garde après copie manque : frappe dans ma version, copie depuis « Le chapitre », Échap (moyenne) | **corrigé** les trois ; garde : banc T |
+| 9 | « L a répondu » au lieu de « un élève a répondu » (moyenne) | **corrigé** ; garde : banc T |
+| 10 | « À relire — » une date antérieure à l'heure (moyenne) | **corrigé** (jamais une date passée ; à défaut, le prochain jour ouvré) |
+| 11 | les prises de parole hors question ne sont pas racontées (moyenne) | **reste**, hérité de la maquette (cadrage 2 · 1.5 ne le dit que pour les questions) : à la conscience |
+| 12 | récit hors de l'ordre du temps après des sauts de diapo ; « et enfin » qui n'est pas le dernier connecteur (moyenne) | **reste** — `troisTemps`/`adverbeEtape` de la maquette, à reprendre : dette écrite dans `JOURNAL.md` |
+| 13 | « s'est terminée à » = maintenant en cours d'heure (basse) | **corrigé** (la fin du créneau, cadrage 2 · 1.1) ; le reste du point 13 (verdict en cours d'heure, chiffres/lettres, « non jouée » au chapitre) : **reste**, hérité |

diff --git a/LIVRAISONS/INTEGRATION/E4/JOURNAL.md b/LIVRAISONS/INTEGRATION/E4/JOURNAL.md
@@ -41,3 +41,9 @@
 - **corrigé** : `dr_recitDocuments` ne prend la simulation que si elle a des documents pour la séance ; le banc lit un chemin du hub qui contient des espaces (« 3E Charles de Gaulle ») ; les épreuves après R3 repartent d'un hub neuf ; bouton grisé visible dans le panneau des documents.
 - **E1-a** : toujours absente à 08:50 (dernière poussée d'E1 : 07:50, son audit). Si rien à H0 + 3 (≈ 10:23), je travaille dans `attente-E4/` comme le dit le contrat §10 — en pratique mon module tourne déjà sur une copie de la maquette (le banc) : je le dirai ici.
 - **relances** : `RELANCES/E4.md` relu : rien.
+
+## 09:11 — poussée 8 : premier relecteur neuf (passe préalable) — dix trouvailles corrigées
+- **fait** : deux relecteurs neufs lancés sur la maquette + module ; le n°1 (récit, ma version, ED) a rendu 13 trouvailles : 10 corrigées dans `dr-recit.js`, chacune avec sa garde au banc (épreuve **T**) — `E4/relecteurs/R1-pre-E1a.md`. Banc : **socle simulé 34 ok · 0 échec · 0 absent ; maquette 28 ok · 0 échec · 3 absents**.
+- **pour E2** : les boutons `#f-copie-contenu` / `#f-copie-travail` de la fin de l'heure (l. 1567-1568, ton territoire) copient du texte brut ; cadrage 2 · 1.9 veut le HTML propre : `dr_recitCopierED(html, null, 'copié : …')` (dr-recit.js) le fait — html = `recitPourED(h)` pour le contenu, `'<p>' + esc(texteTravail()) + '</p>'` pour le travail.
+- **dettes (jamais cachées)** : (11) les prises de parole hors question ne sont pas racontées ; (12) après des sauts de diapo, `troisTemps` sort de l'ordre du temps et « et enfin » peut ne pas être le dernier connecteur ; (13) le verdict apparaît en cours d'heure. Hérités de la maquette ; je les reprends après le branchement sur E1-a.
+- **relances** : rien. E1-a : absente.
